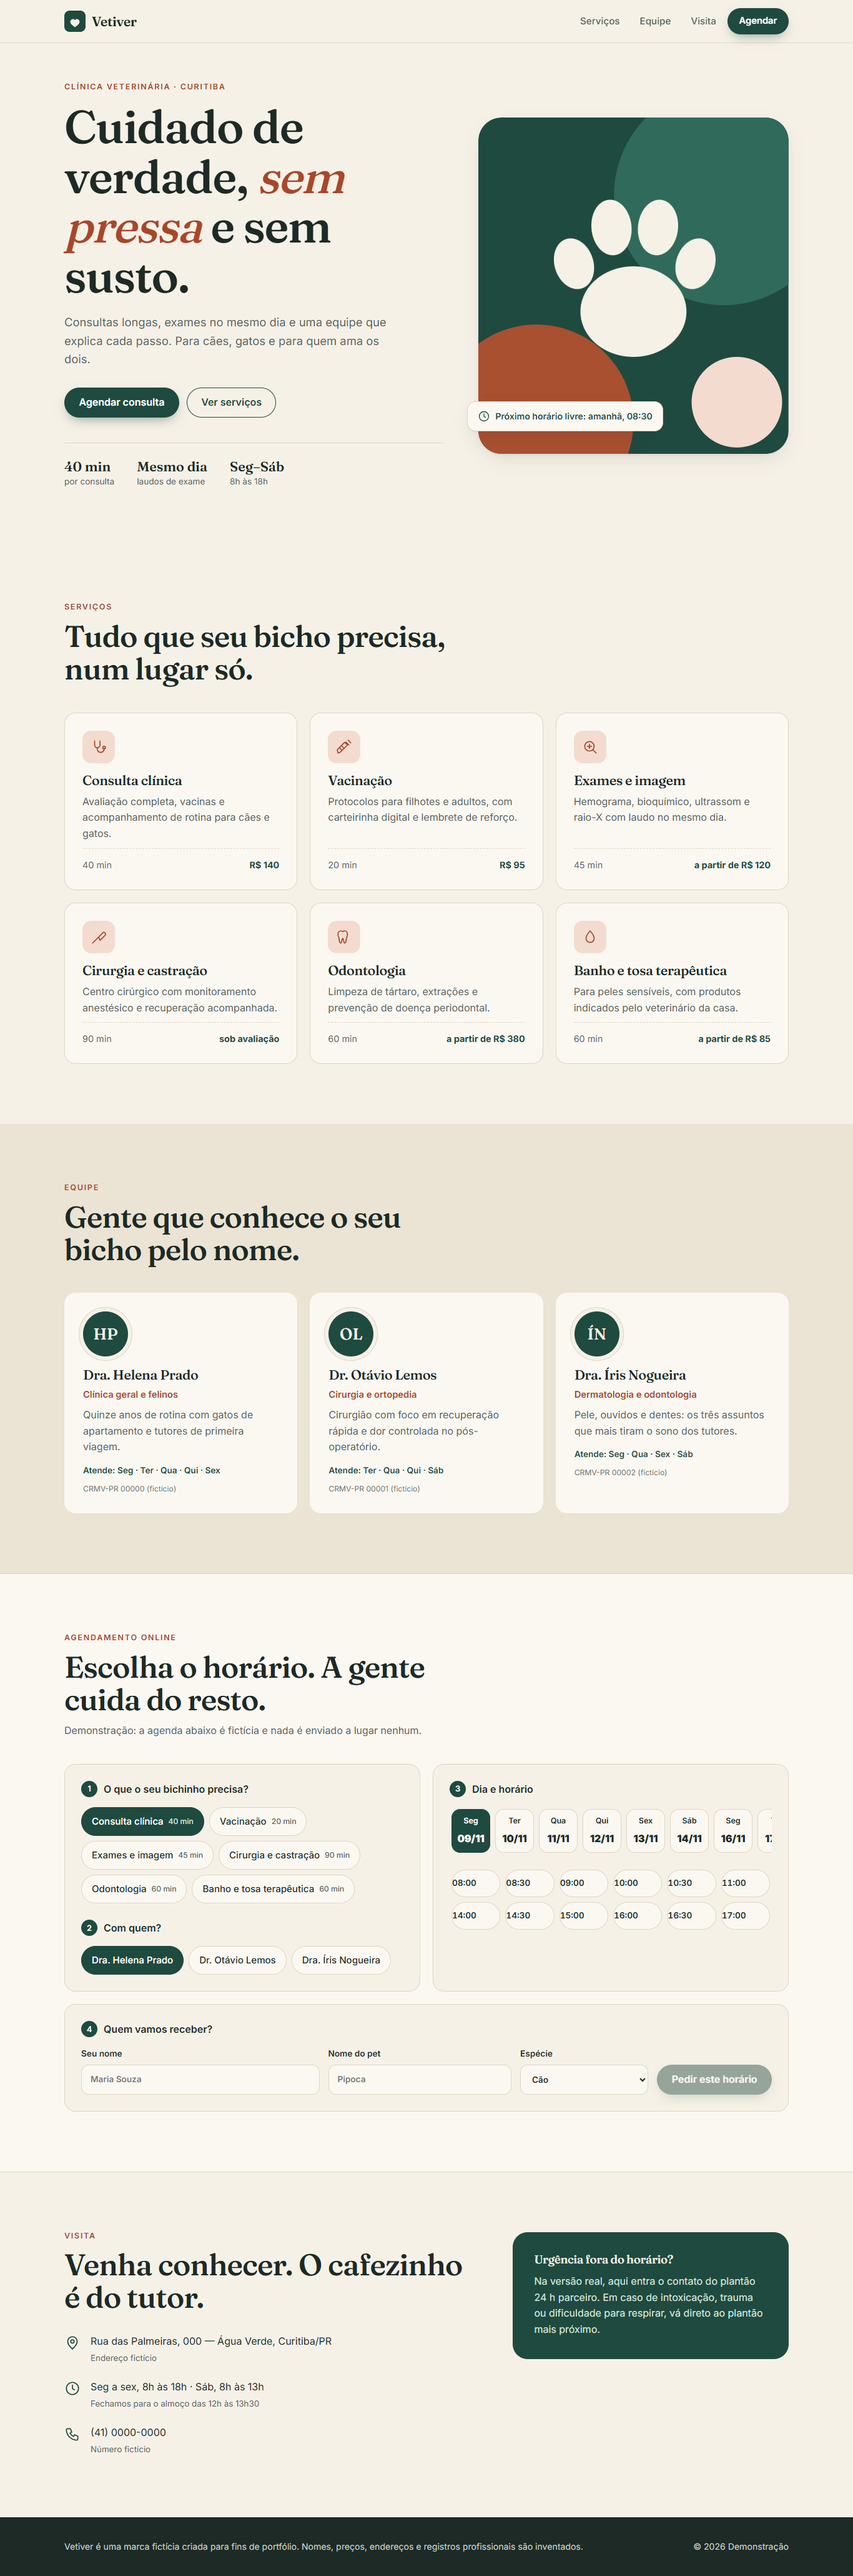
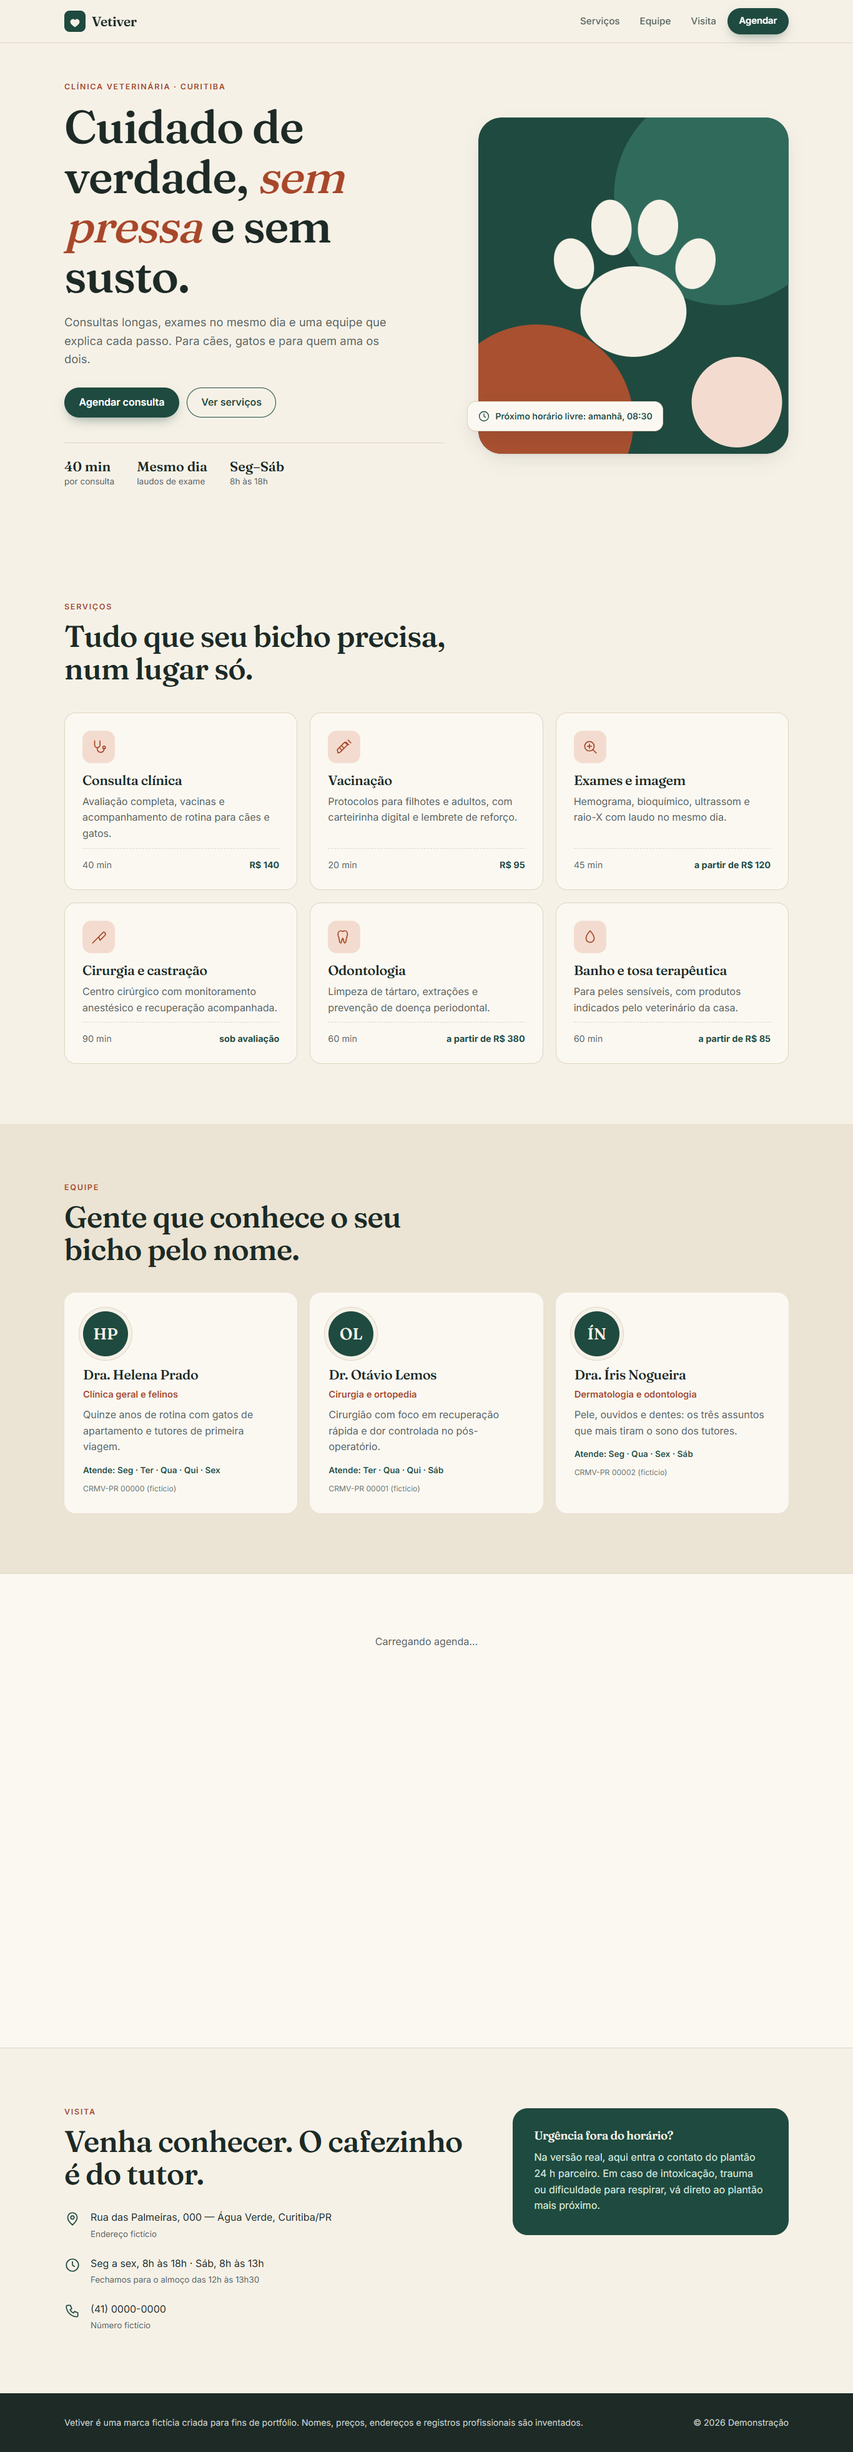
S-0530: agenda carregada sob demanda, ajustes de performance e prints

diff --git a/src/routes/+page.svelte b/src/routes/+page.svelte
@@ -1,7 +1,17 @@
 <script>
   import { services, team } from '../lib/data.js';
   import Icon from '../lib/Icon.svelte';
-  import Agendar from '../lib/Agendar.svelte';
+  import { onMount } from 'svelte';
+  let Ag = $state(null);
+  let slot;
+  // Carrega o agendador só perto da viewport: tira a hidratação pesada do caminho crítico.
+  onMount(() => {
+    const io = new IntersectionObserver((e) => {
+      if (e.some((x) => x.isIntersecting)) { io.disconnect(); import('../lib/Agendar.svelte').then((m) => (Ag = m.default)); }
+    }, { rootMargin: '600px' });
+    io.observe(slot);
+    return () => io.disconnect();
+  });
   const dias = ['Domingo', 'Segunda', 'Terça', 'Quarta', 'Quinta', 'Sexta', 'Sábado'];
   const iniciais = (n) => n.split(' ').slice(1).map((p) => p[0]).join('');
 </script>
@@ -46,7 +56,7 @@
         </ul>
       </div>
       <div class="art" aria-hidden="true">
-        <svg viewBox="0 0 480 520" width="100%" height="auto">
+        <svg viewBox="0 0 480 520" width="100%">
           <defs><clipPath id="c"><rect width="480" height="520" rx="36" /></clipPath></defs>
           <g clip-path="url(#c)">
             <rect width="480" height="520" fill="#1f4a3f" />
@@ -107,7 +117,9 @@
     </div>
   </section>
 
-  <Agendar />
+  <div bind:this={slot} id="agendar" class="agslot">
+    {#if Ag}<Ag />{:else}<p class="agload">Carregando agenda…</p>{/if}
+  </div>
 
   <section id="visita" class="sec">
     <div class="wrap vgrid">
@@ -138,7 +150,7 @@
 <style>
   .skip { position: absolute; left: -999px; background: var(--green); color: #fff; padding: 10px 16px; z-index: 99; }
   .skip:focus { left: 12px; top: 12px; }
-  .top { position: sticky; top: 0; z-index: 20; background: rgba(246, 241, 231, .88); backdrop-filter: blur(12px); border-bottom: 1px solid var(--line); }
+  .top { position: sticky; top: 0; z-index: 20; background: var(--cream); border-bottom: 1px solid var(--line); }
   .bar { display: flex; align-items: center; justify-content: space-between; height: 68px; gap: 16px; }
   .logo { display: flex; align-items: center; gap: 10px; text-decoration: none; font: 600 1.35rem var(--serif); letter-spacing: -.02em; }
   nav { display: flex; gap: 28px; margin-left: auto; }
@@ -184,6 +196,8 @@
   .info small { color: var(--muted); }
   .urg { background: var(--green); color: var(--cream); padding: 34px; border-radius: 24px; display: grid; gap: 12px; }
   .urg p { color: #d6e5df; }
+  .agslot { min-height: 760px; background: var(--paper); border-block: 1px solid var(--line); }
+  .agload { padding: 96px 20px; text-align: center; color: var(--muted); }
   .foot { background: var(--ink); color: #c7d0cb; padding: 36px 0; font-size: .88rem; }
   .foot .wrap { display: flex; justify-content: space-between; gap: 20px; flex-wrap: wrap; }
   @media (max-width: 900px) {

diff --git a/src/lib/Agendar.svelte b/src/lib/Agendar.svelte
@@ -26,7 +26,7 @@
   function reiniciar() { confirmado = false; hora = ''; nome = ''; pet = ''; }
 </script>
 
-<section id="agendar" class="sec">
+<section class="sec">
   <div class="wrap">
     <div class="head">
       <p class="eyebrow">Agendamento online</p>
@@ -125,7 +125,7 @@
   .chip small { color: var(--muted); font-size: .76rem; }
   .on { border-color: var(--green); background: var(--green); color: #fff; }
   .on small { color: #cfe3dc; }
-  .chip:has(:focus-visible), .slot:has(:focus-visible), .day:has(:focus-visible) { outline: 3px solid var(--clay); outline-offset: 2px; }
+  .chip:focus-within, .slot:focus-within, .day:focus-within { outline: 3px solid var(--clay); outline-offset: 2px; }
   .days { display: flex; gap: 8px; overflow-x: auto; padding: 3px 3px 10px; margin-bottom: 14px; scrollbar-width: thin; }
   .day { flex: 0 0 62px; border-radius: 14px; display: flex; flex-direction: column; align-items: center; padding: 8px 0; text-transform: capitalize; font-size: .78rem; }
   .day b { font-size: 1rem; }

diff --git a/vite.config.js b/vite.config.js
@@ -7,7 +7,7 @@ export default defineConfig({
     sveltekit({
       adapter: adapter({ pages: 'out', assets: 'out' }),
       paths: { base: process.env.BASE_PATH ?? '' },
-      output: { bundleStrategy: 'single' }, inlineStyleThreshold: 100000,
+      inlineStyleThreshold: 100000,
       prerender: { handleHttpError: 'fail' }
     })
   ],

diff --git a/README.md b/README.md
@@ -8,6 +8,8 @@ Portfolio demo of a small veterinary clinic site: services, team and an interact
 ![Desktop](docs/desktop.png)
 <img src="docs/mobile.png" alt="Mobile view" width="300" />
 
+![Booking flow](docs/booking.png)
+
 ## Features
 - Service catalogue, team profiles with working days
 - Booking flow: service → vet → day → time slot → pet details. Slots respect each vet's working days, opening hours (Sat closes at 13:00), lunch break and service duration; a deterministic fake agenda marks some slots as taken
